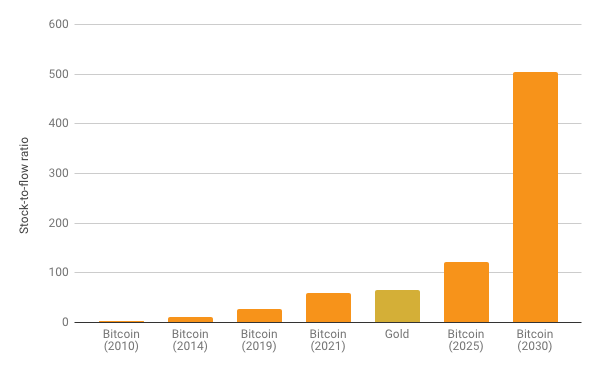
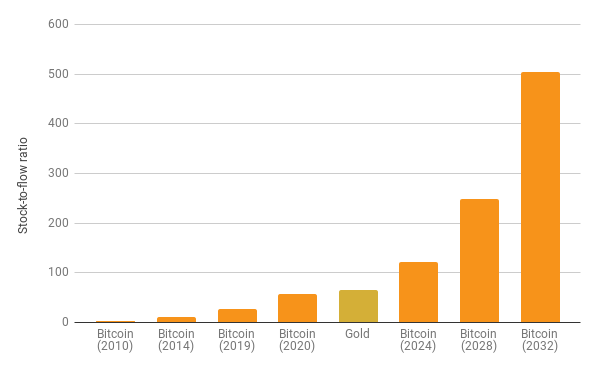
Add links to Lesson 14; re-do s2f image

diff --git a/lessons/ch2-14-sound-money.tex b/lessons/ch2-14-sound-money.tex
@@ -44,15 +44,13 @@ chose something more reliable than human restraint: mathematics.
   \label{fig:supply-formula-white}
 \end{figure}
 
-While this formula is useful to describe Bitcoin's supply, it is
-actually nowhere to be found in the code. Issuance of new bitcoin is
-done in an [algorithmically controlled] fashion, by reducing the reward
-which is paid to miners every four years. The formula above is used to
-quickly sum up what is happening under the hood. What really happens can
-be best seen by looking at the change in block reward, the reward paid
-out to whoever finds a valid block, which roughly happens every 10
-minutes.
-
+While this formula is useful to describe Bitcoin's supply, it is actually
+nowhere to be found in the code. Issuance of new bitcoin is done in an
+algorithmically controlled fashion, by reducing the reward which is paid to
+miners every four years.~\cite{btcwiki:supply} The formula above is used to
+quickly sum up what is happening under the hood. What really happens can be best
+seen by looking at the change in block reward, the reward paid out to whoever
+finds a valid block, which roughly happens every 10 minutes.
 
 \begin{figure}
   \includegraphics{assets/images/you-are-here.png}
@@ -100,21 +98,20 @@ of the current money supply. The \textit{flow} is how much there is produced
 over a period of time (e.g. per year). The key to understanding sound
 money is in understanding this stock-to-flow ratio.
 
-Calculating the stock-to-flow ratio for fiat currency is difficult,
-because [how much money there is] depends on how you look at it. You
+Calculating the stock-to-flow ratio for fiat currency is difficult, because how
+much money there is depends on how you look at it.~\cite{wiki:money-supply} You
 could count only banknotes and coins (M0), add traveler checks and check
-deposits (M1), add saving accounts and mutual funds and some other
-things (M2), and even add certificates of deposit to all of that (M3).
-Further, how all of this is defined and measured varies from country to
-country and since the US Federal Reserve [stopped publishing] numbers
-for M3, we will have to make do with the M2 monetary supply. I would
-love to verify these numbers, but I guess we have to trust the fed for
-now.
+deposits (M1), add saving accounts and mutual funds and some other things (M2),
+and even add certificates of deposit to all of that (M3). Further, how all of
+this is defined and measured varies from country to country and since the US
+Federal Reserve stopped publishing \cite{web:fed-m3} numbers for M3, we will
+have to make do with the M2 monetary supply. I would love to verify these
+numbers, but I guess we have to trust the fed for now.
 
 Gold, one of the rarest metals on earth, has the highest stock-to-flow
 ratio. According to the US Geological Survey, a little more than 190,000
-tons have been mined. In the [last few years], around 3100 tons of gold
-have been mined per year.
+tons have been mined. In the last few years, around 3100 tons of gold
+have been mined per year.~\cite{mineral-commodity-summaries}
 
 Using these numbers, we can easily calculate the stock-to-flow ratio for
 gold:
@@ -128,11 +125,11 @@ gold:
   \label{fig:stock-to-flow-gold}
 \end{figure}
 
-Nothing has a higher stock-to-flow ratio than gold. This is why gold, up
-to now, was the hardest, soundest money in existence. It is often said
-that all the gold mined so far would fit in two olympic-sized swimming
-pools. According to [my calculations], we would need four. So maybe this
-needs updating, or Olympic-sized swimming pools got smaller.
+Nothing has a higher stock-to-flow ratio than gold. This is why gold, up to now,
+was the hardest, soundest money in existence. It is often said that all the gold
+mined so far would fit in two olympic-sized swimming pools. According to my
+calculations\footnote{\url{https://bit.ly/gold-pools}}, we would need four. So
+maybe this needs updating, or Olympic-sized swimming pools got smaller.
 
 Enter Bitcoin. As you probably know, bitcoin mining was all the rage in
 the last couple of years. This is because we are still in the early
@@ -184,20 +181,20 @@ The simplicity of the difficulty adjustment algorithm might distract
 from its profundity, but the difficulty adjustment truly is a revolution
 of Einsteinian proportions. It ensures that, no matter how much or how
 little effort is spent on mining, Bitcoin's controlled supply won't be
-disrupted. As opposed to every other resource, no matter how [much
-energy] someone will put into mining bitcoin, the total reward will not
+disrupted. As opposed to every other resource, no matter how much
+energy someone will put into mining bitcoin, the total reward will not
 increase.
 
-Just like $E=mc^2$ dictates the [universal speed limit] in our universe,
+Just like $E=mc^2$ dictates the universal speed limit in our universe,
 Bitcoin's difficulty adjustment dictates the \textbf{universal money limit}
 in Bitcoin.
 
-If it weren't for this difficulty adjustment, all bitcoins would have
-been mined already. If it weren't for this difficulty adjustment,
-Bitcoin probably wouldn't have survived in its infancy. It is what
-secures the network in its reward era. It is what ensures a steady and
-[fair distribution] of new bitcoin. It is the thermostat which regulates
-Bitcoin's monetary policy.
+If it weren't for this difficulty adjustment, all bitcoins would have been mined
+already. If it weren't for this difficulty adjustment, Bitcoin probably wouldn't
+have survived in its infancy. It is what secures the network in its reward era.
+It is what ensures a steady and fair distribution\footnote{Dan Held,
+\textit{Bitcoin's Distribution was Fair}~\cite{distribution-was-fair}} of new
+bitcoin. It is the thermostat which regulates Bitcoin's monetary policy.
 
 Einstein showed us something novel: no matter how hard you push an
 object, at a certain point you won't be able to get more speed out of
